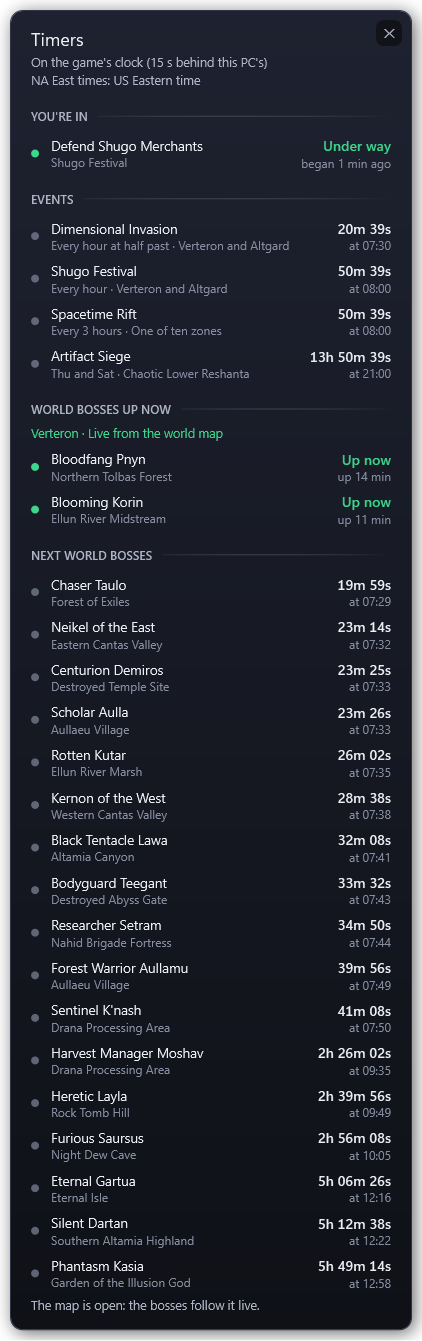
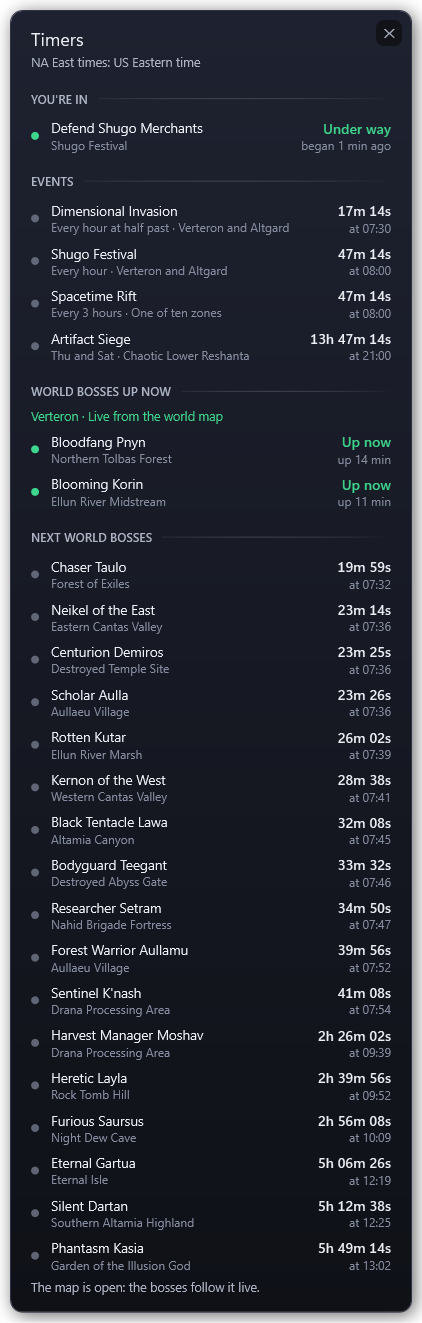
Tracker: the Timers window says nothing about how its times are read (Steven's rule: only Options may)
The clock line is gone (the region's time stays), the bosses' empty state and the
menu's tip point to Options › Game reading without naming it, and 0.10.84's notes are
reworded the same way.

diff --git a/tracker/KinahLedger.Tracker/Ui/MainWindow.Bosses.cs b/tracker/KinahLedger.Tracker/Ui/MainWindow.Bosses.cs
@@ -42,7 +42,7 @@ public partial class MainWindow
             : EventClock.Rows(now, EventRegion).FirstOrDefault() is { } next ? $"{next.Event.Name} {(next.OnNow ? "on now" : "in " + BossTimers.Span(next.Left))}" : "";
         return new MenuEntry("Timers", OpenBossWindow,
             Sub: sub.Length > 0 ? $"{sub} · world bosses" : "Events and world bosses",
-            Tip: "When the game's events start next (Shugo Festival, Dimensional Invasion, Spacetime Rift, Artifact Siege), on the game's own clock, and the event you're in; then the field bosses' spawn timers from the world map. The game's clock, the event you're in and the bosses need packet reading (Options › Game reading).");
+            Tip: "When the game's events start next in your region's time (Shugo Festival, Dimensional Invasion, Spacetime Rift, Artifact Siege) and the event you're in; then the field bosses' spawn timers from the world map. The event you're in and the bosses need Options › Game reading.");
     }
 
     /// <summary>Opens the timers' window, or brings it forward; it redraws every second while open.</summary>
@@ -70,16 +70,13 @@ public partial class MainWindow
         var (card, body) = CkShell(BossCardWidth);
         var timers = EventClock;
 
-        // the band: what this is, and which clock the countdowns follow
+        // the band: what this is, and the region's time the events are in (Session/EventTimers.ClockOf). Nothing outside
+        // Options names how the times are read (Steven, 2026-11-14)
         var band = new StackPanel { Margin = new Thickness(20, 16, 56, 4) };
         band.Children.Add(CkText("Timers", CkInk, 18, FontWeights.Normal, display: true));
-        var clock = CkText(timers.ClockLine(now), CkMuted, 12.5);
-        clock.Margin = new Thickness(0, 3, 0, 0); clock.TextWrapping = TextWrapping.Wrap; clock.TextTrimming = TextTrimming.None;
-        band.Children.Add(clock);
-        // the region's zone: the schedule's times are its wall-clock times (Session/EventTimers.ClockOf)
         var zone = EventTimers.ClockOf(EventRegion);
         var zt = CkText(zone.Checked ? $"{zone.Name} times: {zone.Note}" : $"Event times: {zone.Note}", zone.Checked ? CkMuted : CkWarn, 12.5);
-        zt.Margin = new Thickness(0, 1, 0, 0); zt.TextWrapping = TextWrapping.Wrap; zt.TextTrimming = TextTrimming.None;
+        zt.Margin = new Thickness(0, 3, 0, 0); zt.TextWrapping = TextWrapping.Wrap; zt.TextTrimming = TextTrimming.None;
         band.Children.Add(zt);
         body.Children.Add(band);
 
@@ -99,8 +96,8 @@ public partial class MainWindow
         if (rows.Count == 0)
         {
             body.Children.Add(CkSection("WORLD BOSSES"));
-            body.Children.Add(CkNote("Open the world map in the game. While it is open the game sends every field boss's timer, and they count down here after you close it."));
-            body.Children.Add(CkNote(_watcher.Packets.Enabled ? "Packet reading: " + _watcher.Packets.State : "Packet reading is off (Options › Game reading), so the timers can't be read."));
+            body.Children.Add(CkNote("Open the world map in the game once. Its field boss timers show here, and keep counting down after you close it."));
+            if (!_watcher.Packets.Enabled) body.Children.Add(CkNote("They need Options › Game reading, which is off."));
             body.Children.Add(new Border { Height = 16 });
             return card;
         }
@@ -135,7 +132,7 @@ public partial class MainWindow
             foreach (var r in other) list.Children.Add(BossRow(r));
         }
         body.Children.Add(list);
-        body.Children.Add(CkNote(live2 ? "The map is open: the bosses follow it live." : "Bosses: counted down on this PC since the map was last open. A kill nobody saw on the map doesn't show until it is opened again."));
+        body.Children.Add(CkNote(live2 ? "The map is open: the bosses follow it live." : "Bosses: counted down since the map was last open. A kill nobody saw on the map doesn't show until it is opened again."));
         body.Children.Add(new Border { Height = 14 });
         return card;
     }
@@ -156,7 +153,7 @@ public partial class MainWindow
         string stage = EventTimers.StageText(l);
         bool on = l.LeftAt == null && l.Stage is Packets.AreaEvent.Stage.Preparing or Packets.AreaEvent.Stage.UnderWay;
         var tone = l.LeftAt != null ? CkFaint : l.Stage == Packets.AreaEvent.Stage.UnderWay ? CkGood : l.Stage == Packets.AreaEvent.Stage.Preparing ? CkGold : CkMuted;
-        string sub = l.Name.Length > 0 && l.Family.Length > 0 ? l.Family : "From the game's own messages";
+        string sub = l.Name.Length > 0 && l.Family.Length > 0 ? l.Family : "Event";
         string small = l.LeftAt is { } left ? $"{BossTimers.Ago(now - left)}" : l.OverAt is { } over ? $"{BossTimers.Ago(now - over)}" : l.StartedPc is { } st ? $"began {BossTimers.Ago(now - st)}" : "";
         return TimerRow(l.Label, sub, stage, small, tone, tone == CkFaint ? CkMuted : tone, on);
     }

diff --git a/tracker/KinahLedger.Tracker/Session/EventTimers.cs b/tracker/KinahLedger.Tracker/Session/EventTimers.cs
@@ -14,7 +14,8 @@ namespace KinahLedger.Session;
 /// Until 0.10.85 every region was counted on UTC+9 (MetaBot's reading), which put NA East's Artifact Siege at 07:00 instead of
 /// 21:00 and its Spacetime Rift an hour early. Regions not checked yet keep UTC+9, and the card says so;</item>
 /// <item>its gap to this PC's clock (about 15 s behind on 2026-11-13), taken from the game's traffic (<see cref="TakeClock"/>),
-/// so the countdown can't be off by it. With packet reading off, this PC's clock is used, and the card says so.</item>
+/// so the countdown can't be off by it. Without it this PC's clock is used. The card names neither clock: no text outside
+/// Options says how the times are read (Steven, 2026-11-14).</item>
 /// </list>
 ///
 /// The event the player is in comes from the event's own server (<see cref="Take"/>): getting ready, under way, over, left.
@@ -114,17 +115,8 @@ public sealed class EventTimers
         lock (_gate) { _offset = at - serverNow; _clockAt = at; }
     }
 
-    /// <summary>"Game clock, live" / "Game clock, read 2 h ago" / "This PC's clock (packet reading is off)".</summary>
-    public string ClockLine(DateTime now)
-    {
-        lock (_gate)
-        {
-            if (_clockAt == DateTime.MinValue) return "On this PC's clock: the game's own clock comes with packet reading";
-            double gap = _offset.TotalSeconds;
-            string g = Math.Abs(gap) < 1 ? "" : $" ({Math.Abs(gap):0} s {(gap > 0 ? "behind" : "ahead of")} this PC's)";
-            return (now - _clockAt).TotalSeconds <= ClockLiveSeconds ? $"On the game's clock{g}" : $"On the game's clock as last read{g}, {BossTimers.Ago(now - _clockAt)}";
-        }
-    }
+    /// <summary>True while the server's clock was sampled in the last <see cref="ClockLiveSeconds"/> (for the log and tests; the card says nothing about it).</summary>
+    public bool ClockLive(DateTime now) { lock (_gate) return _clockAt != DateTime.MinValue && (now - _clockAt).TotalSeconds <= ClockLiveSeconds; }
 
     /// <summary>What the game's traffic said about events: the clock, and the event the player is in.</summary>
     public void Take(AreaEvent e)

diff --git a/tracker/KinahLedger.Tracker/Packets/PacketTests.cs b/tracker/KinahLedger.Tracker/Packets/PacketTests.cs
@@ -672,11 +672,11 @@ public static class PacketTests
 
         var et = new EventTimers();
         var pc = server + lag;
-        Check(!et.ClockKnown && et.ClockLine(pc).StartsWith("On this PC's clock"), "...before the traffic says, this PC's clock (and the card says so)");
+        Check(!et.ClockKnown && !et.ClockLive(pc), "...before the traffic says, this PC's clock");
         et.Take(new AreaEvent(pc, server, AreaEvent.Kind.Clock, AreaEvent.Stage.Unknown, null, "", "", "", 0));
         var sf = et.Rows(pc, "na_e").First(r => r.Event.Name == "Shugo Festival");
-        Check(et.ClockKnown && Math.Abs(et.Offset.TotalSeconds - 14.6) < 0.01 && sf.Left == TimeSpan.FromMinutes(31) && et.ClockLine(pc) == "On the game's clock (15 s behind this PC's)",
-            $"...the game's clock from its traffic: {et.Offset.TotalSeconds:F1} s; the Shugo Festival in {BossTimers.Countdown(sf.Left)}; \"{et.ClockLine(pc)}\"");
+        Check(et.ClockKnown && et.ClockLive(pc) && !et.ClockLive(pc.AddMinutes(5)) && Math.Abs(et.Offset.TotalSeconds - 14.6) < 0.01 && sf.Left == TimeSpan.FromMinutes(31),
+            $"...the game's clock from its traffic: {et.Offset.TotalSeconds:F1} s; the Shugo Festival in {BossTimers.Countdown(sf.Left)}");
 
         // the event the player is in: 17:01, 2026-11-13 (UTC 22:01), as the event server said it
         var e0 = new DateTime(2026, 11, 13, 22, 1, 20, 361, DateTimeKind.Utc);

diff --git a/release-notes/v0.10.84.md b/release-notes/v0.10.84.md
@@ -1,8 +1,8 @@
 Kinah Ledger tracker 0.10.84: event timers.
 
-- **Event timers.** The world boss timers' window is now **Timers** (the ⋯ menu on the Events page). At the top it counts down to the game's scheduled events: the Shugo Festival every hour, the Dimensional Invasion at half past, the Spacetime Rift every 3 hours and the Artifact Siege on Monday, Thursday and Saturday. Each says "On now" while it is on, and turns gold in its last 10 minutes. The world bosses are below, as before.
-- **On the game's own clock.** The game's clock runs some seconds off your PC's (about 15 s on ours), and its events start on its clock. With packet reading on, the tracker takes the game's clock and counts on it, so the countdown hits zero when the event starts, not 15 s early. The window says which clock it is counting on.
+- **Event timers.** The world boss timers' window is now **Timers** (the ⋯ menu on the Events page). At the top it counts down to the game's scheduled events: the Shugo Festival every hour, the Dimensional Invasion at half past, the Spacetime Rift every 3 hours and the Artifact Siege. Each says "On now" while it is on, and turns gold in its last 10 minutes. The world bosses are below, as before.
+- **Right to the second.** The countdowns hit zero when the event starts.
 - **The event you're in.** While you're in an event, the window shows it at the top: getting ready, under way, over (rewards next), then left.
-- **Event runs start and end when the game says so.** With packet reading on, an event run now starts the moment the game puts you in the event (about 10 s before the minimap shows it), and ends when the game takes you out, instead of waiting for the screen. The screen still names the game when the tracker doesn't know it yet, and counts as before when packet reading is off.
+- **Event runs start and end on time.** An event run now starts the moment you're put in the event (about 10 s before the minimap shows it) and ends when you're taken out, instead of waiting for the screen. The screen still names the game when the tracker doesn't know it yet.
 
 Installed copies update by themselves in the background.
